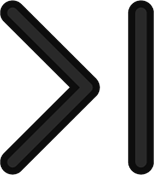
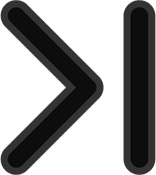
revised navEnd and navStart btns

diff --git a/src/components/editPattern_snowflake_mc.js b/src/components/editPattern_snowflake_mc.js
@@ -151,7 +151,7 @@ class EditPatternSnowflakeMC extends Component {
 						<NavigateStartBtn
 							btnHeight={currentInstanceSize / 12}
 							btnLocation={{
-								top: `calc(${currentInstanceTopMargin}px + ${currentInstanceSize * 9 / 16}px + 10px)`,
+								top: `calc(${currentInstanceTopMargin}px + ${currentInstanceSize * 9 / 16}px + 20px)`,
 								left: `calc(50% - ${currentInstanceSize * 1.34375}px - 40px`
 							}} />
 					</div>
@@ -229,7 +229,7 @@ class EditPatternSnowflakeMC extends Component {
 						<NavigateEndBtn
 							btnHeight={currentInstanceSize / 12}
 							btnLocation={{
-								top: `calc(${currentInstanceTopMargin}px + ${currentInstanceSize * 9 / 16}px + 10px)`,
+								top: `calc(${currentInstanceTopMargin}px + ${currentInstanceSize * 9 / 16}px + 20px)`,
 								left: `calc(50% + ${currentInstanceSize * 1.28125}px + 40px`
 							}} />
 					</div>

diff --git a/src/components/navigate_endBtn.js b/src/components/navigate_endBtn.js
@@ -13,7 +13,7 @@ class NavigateEndBtn extends Component {
 			},
 			arrow: {
 				height: btnHeight,
-				width: btnHeight * 154 / 175,
+				width: btnHeight * 156 / 175,
 				backgroundImage: 'url(../src/img/nav_endBtn.png)',
 				backgroundSize: '100% 100%'
 			}
